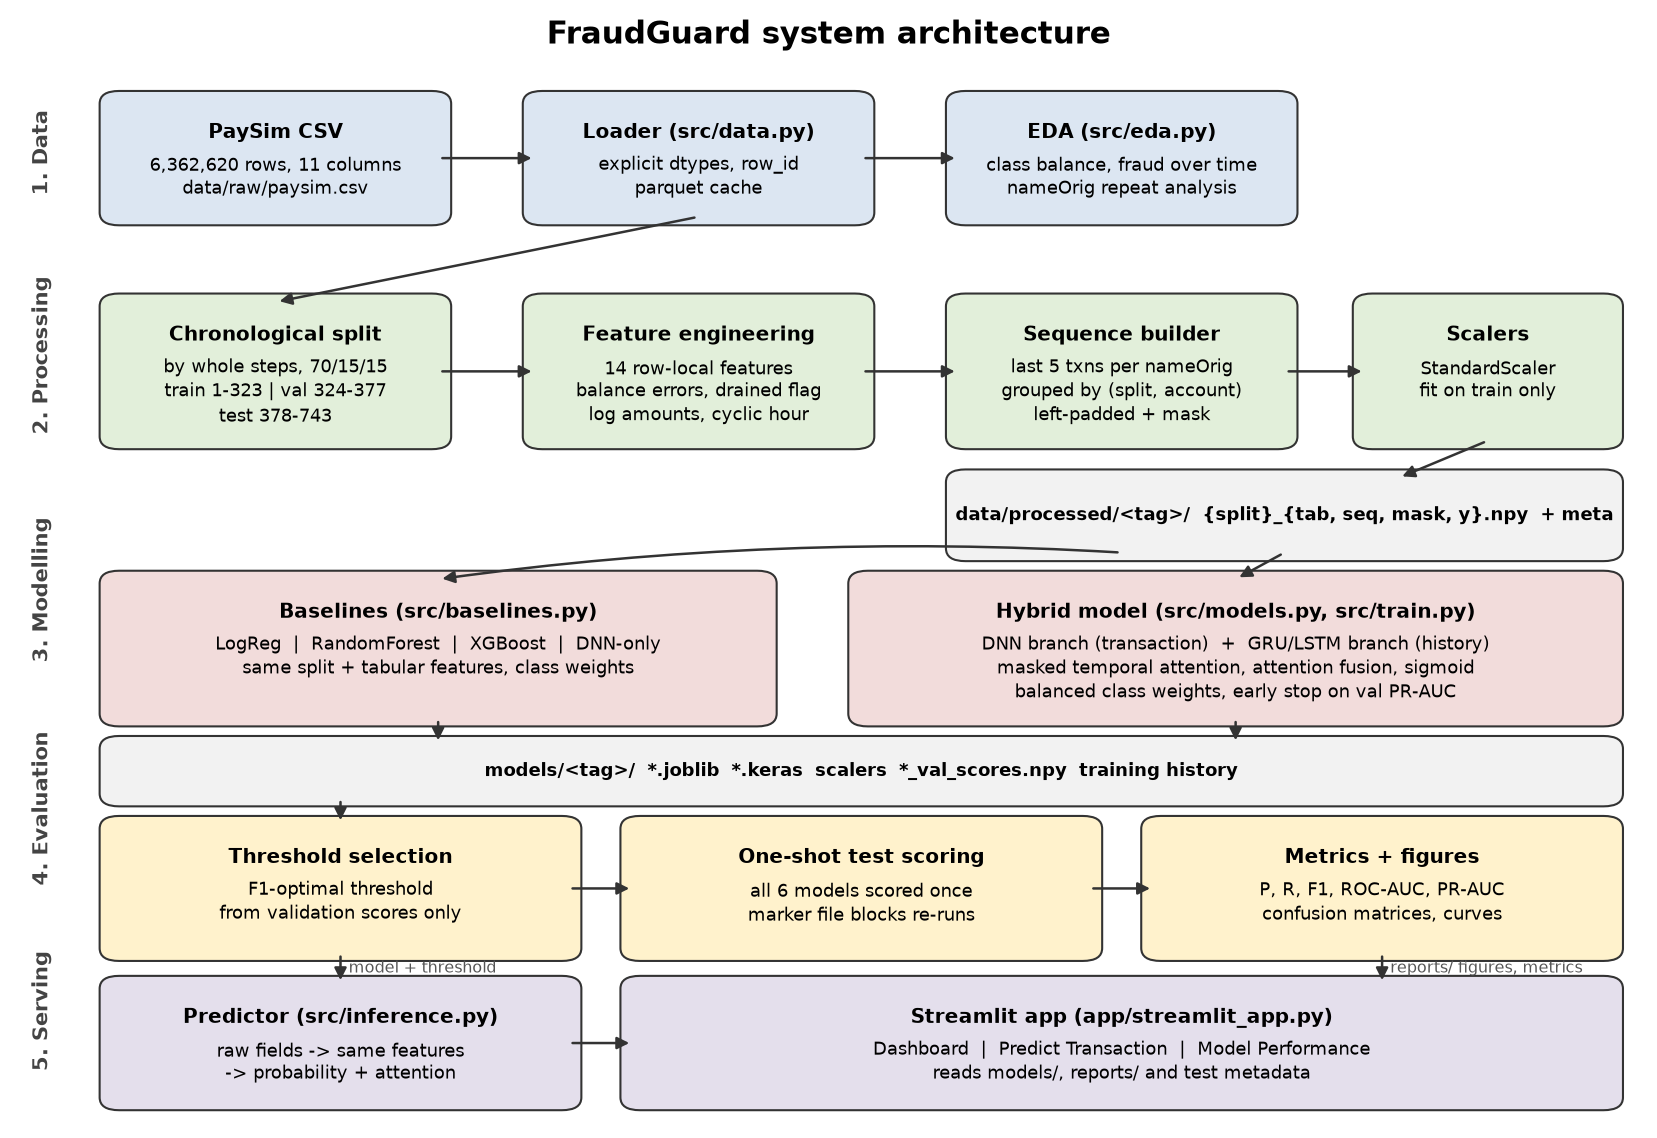
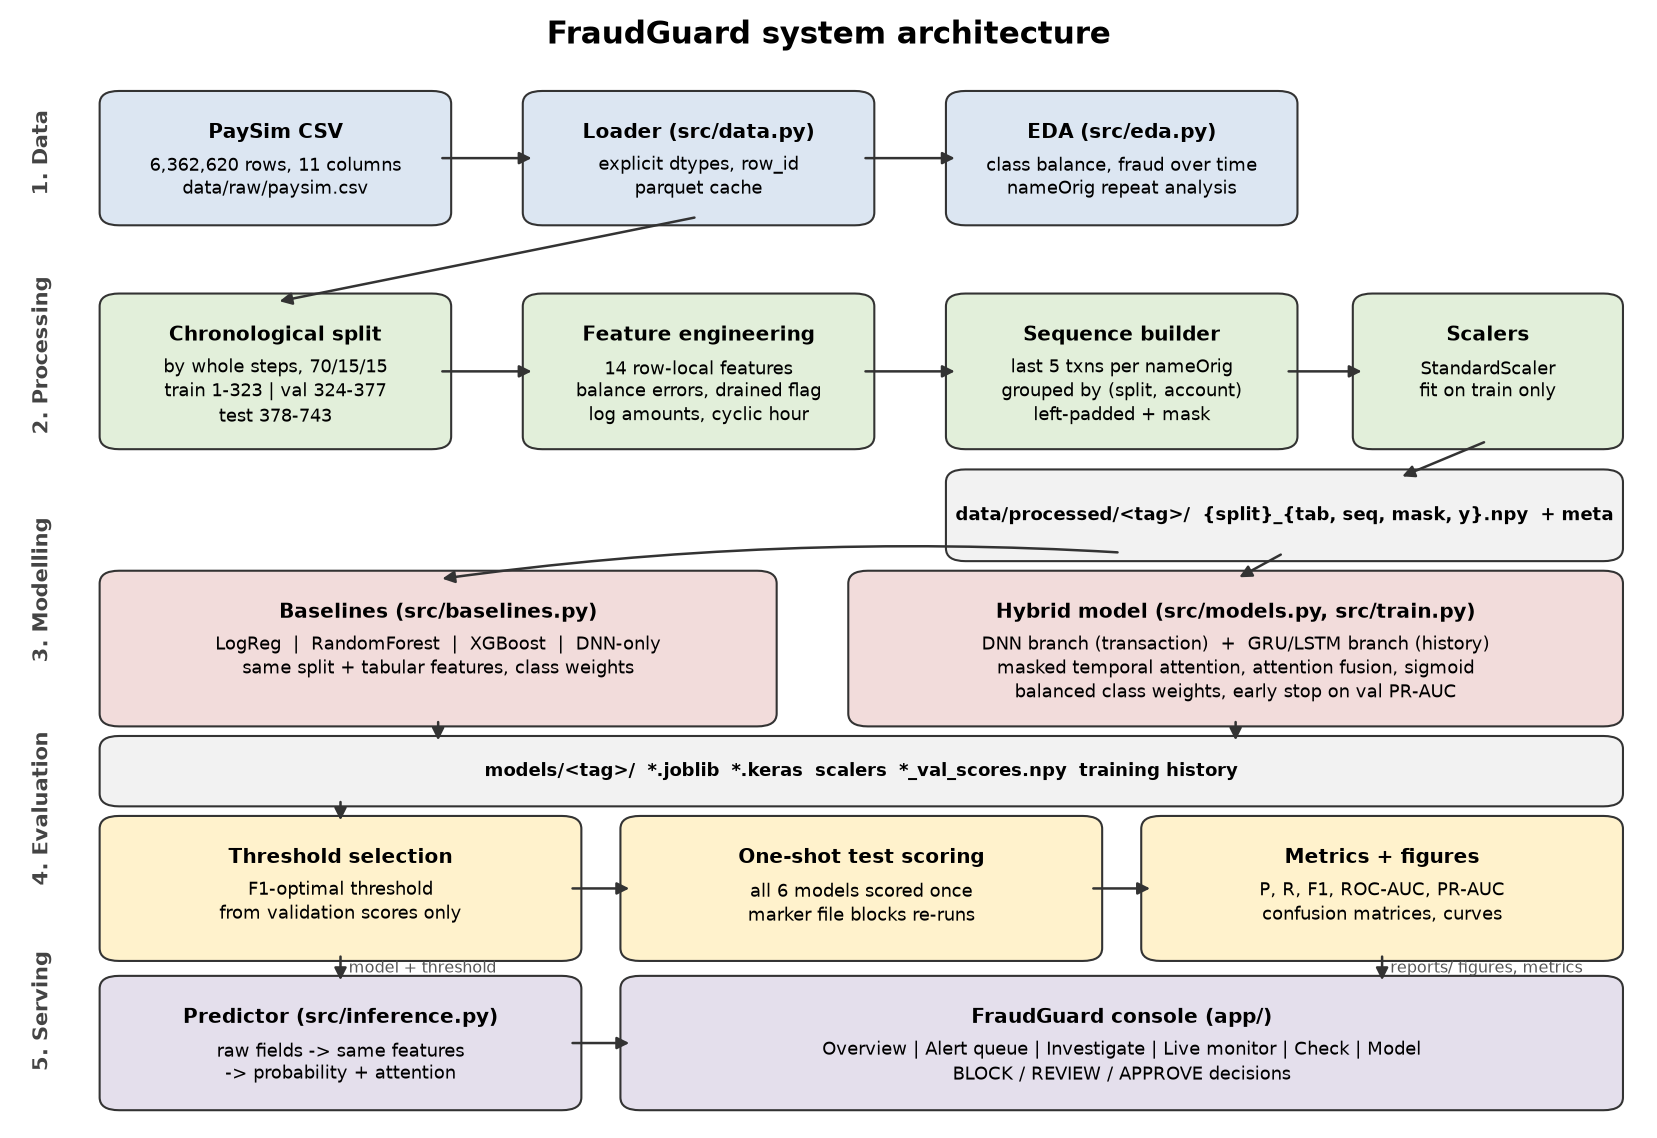
docs: show the console pages in the architecture diagram

Changed region(s): [[0.5232, 0.8612, 0.831, 0.9534]]

diff --git a/docs/make_diagrams.py b/docs/make_diagrams.py
@@ -100,8 +100,8 @@ def system_architecture(path):
     # 5. Serving
     box(ax, 0.06, 0.02, 0.28, 0.11, "Predictor (src/inference.py)",
         "raw fields -> same features\n-> probability + attention", C_APP)
-    box(ax, 0.38, 0.02, 0.6, 0.11, "Streamlit app (app/streamlit_app.py)",
-        "Dashboard  |  Predict Transaction  |  Model Performance\nreads models/, reports/ and test metadata", C_APP)
+    box(ax, 0.38, 0.02, 0.6, 0.11, "FraudGuard console (app/)",
+        "Overview | Alert queue | Investigate | Live monitor | Check | Model\nBLOCK / REVIEW / APPROVE decisions", C_APP)
     arrow(ax, (0.2, 0.16), (0.2, 0.13), text="model + threshold")
     arrow(ax, (0.34, 0.075), (0.38, 0.075))
     arrow(ax, (0.84, 0.16), (0.84, 0.13), text="reports/ figures, metrics")
